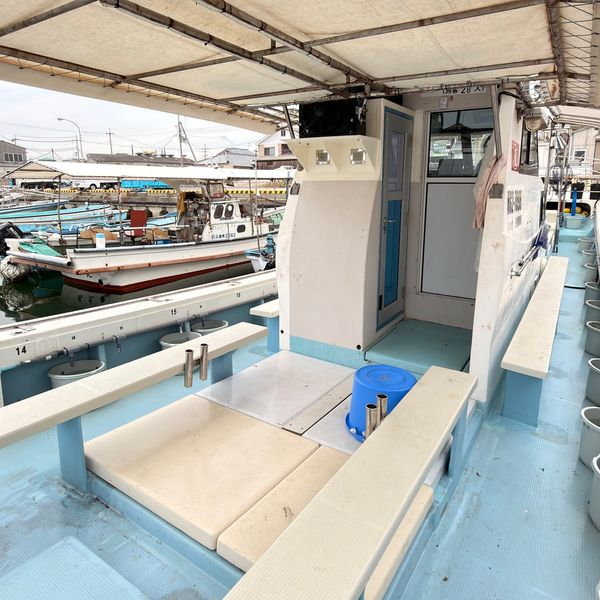
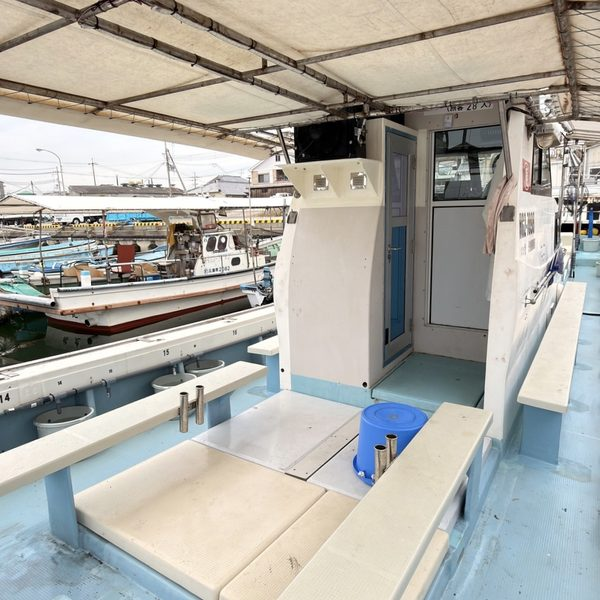
Add files via upload

diff --git a/index.html b/index.html
@@ -94,14 +94,18 @@ h2.sec-title{font-family:"Yusei Magic","Noto Sans JP",sans-serif;font-size:clamp
 @keyframes slideIn{from{opacity:0;transform:translateY(-8px)}to{opacity:1;transform:translateY(0)}}
 .feat-sec{background:#fff;}
 .facility-sec{background:var(--sky-pale);}
-.fac-grid{display:grid;grid-template-columns:repeat(2,1fr);gap:12px;}
-.fac-card{background:#fff;border:1.5px solid var(--border);border-radius:14px;overflow:hidden;box-shadow:0 4px 16px rgba(13,50,96,.05);}
+.fac-grid{display:grid;grid-template-columns:repeat(3,1fr);gap:8px;}
+.fac-card{background:#fff;border:1.5px solid var(--border);border-radius:10px;overflow:hidden;box-shadow:0 4px 16px rgba(13,50,96,.05);}
+.fac-card.span2{grid-column:span 2;}
 .fac-img{width:100%;aspect-ratio:1;overflow:hidden;}
 .fac-img img{width:100%;height:100%;object-fit:cover;display:block;}
-.fac-info{padding:12px 13px 14px;}
-.fac-title{font-family:"Yusei Magic","Noto Sans JP",sans-serif;font-size:15px;font-weight:400;color:var(--navy);margin:0 0 5px;line-height:1.4;}
-.fac-text{font-size:12px;line-height:1.75;color:var(--text);margin:0;}
-@media(min-width:769px){.fac-grid{grid-template-columns:repeat(3,1fr);gap:16px;}}
+.fac-card.span2 .fac-img{aspect-ratio:2/1;}
+.fac-card.dual-img .fac-img{display:grid;grid-template-columns:1fr 1fr;gap:0;aspect-ratio:2/1;}
+.fac-card.dual-img .fac-img img{aspect-ratio:1;height:100%;}
+.fac-info{padding:8px 10px 10px;}
+.fac-title{font-family:"Yusei Magic","Noto Sans JP",sans-serif;font-size:11px;font-weight:400;color:var(--navy);margin:0 0 3px;line-height:1.3;}
+.fac-text{font-size:10px;line-height:1.6;color:var(--text);margin:0;}
+@media(min-width:769px){.fac-grid{gap:16px;}.fac-info{padding:12px 13px 14px;}.fac-title{font-size:15px;margin:0 0 5px;line-height:1.4;}.fac-text{font-size:12px;line-height:1.75;}}
 .boat-photo{margin-bottom:24px;border-radius:16px;overflow:hidden;box-shadow:0 4px 24px rgba(13,50,96,.1);}
 .boat-photo img{width:100%;height:auto;aspect-ratio:1400/1049;object-fit:cover;display:block;}
 .boat-photo figcaption{background:var(--navy);color:#fff;font-size:11px;padding:8px 14px;text-align:center;}
@@ -272,26 +276,40 @@ footer{background:var(--navy);padding:36px 20px 90px;text-align:center;}
   <div class="sec-inner">
     <div class="sec-head"><div class="sec-eyebrow">FACILITY</div><h2 class="sec-title">船の設備・サービス</h2><p class="sec-desc">初めての方も快適に過ごせる設備が揃っています。</p></div>
     <div class="fac-grid">
+      <!-- 1: 大型船（2マス幅） -->
+      <div class="fac-card span2">
+        <div class="fac-img"><img src="fac-ship.jpg" width="600" height="600" loading="lazy" decoding="async" alt="なかにし丸 最大24名の大型遊漁船"></div>
+        <div class="fac-info"><h3 class="fac-title">🚢 最大24名の大型船</h3><p class="fac-text">ゆったりしたスペースで快適に釣りを楽しめます。グループでも安心の大型船です。</p></div>
+      </div>
+      <!-- 4: 個人イケス -->
+      <div class="fac-card">
+        <div class="fac-img"><img src="fac-ikes.jpg" width="600" height="600" loading="lazy" decoding="async" alt="なかにし丸 個人イケス タモ完備"></div>
+        <div class="fac-info"><h3 class="fac-title">🪣 個人イケス・タモ完備</h3><p class="fac-text">釣ったタコを活かす個別イケス付き。タモも完備しているので手ぶらでOK。</p></div>
+      </div>
+      <!-- 2+3: 屋根付き・広い船内（2枚横並び・2マス幅） -->
+      <div class="fac-card span2 dual-img">
+        <div class="fac-img">
+          <img src="fac-roof.jpg" width="600" height="600" loading="lazy" decoding="async" alt="なかにし丸 全席屋根付き">
+          <img src="fac-inside.jpg" width="600" height="600" loading="lazy" decoding="async" alt="なかにし丸 広い船内">
+        </div>
+        <div class="fac-info"><h3 class="fac-title">☂️ 全席屋根付き・広い船内</h3><p class="fac-text">日差しや小雨を防ぐ屋根付き。広々した船内で夏でも快適に釣りを楽しめます。</p></div>
+      </div>
+      <!-- 5: トイレ -->
       <div class="fac-card">
         <div class="fac-img"><img src="fac-toilet.jpg" width="600" height="600" loading="lazy" decoding="async" alt="なかにし丸 船内トイレ完備"></div>
         <div class="fac-info"><h3 class="fac-title">🚻 トイレ完備</h3><p class="fac-text">船内にトイレあり。長時間でも安心。女性のお客様にも好評です。</p></div>
       </div>
-      <div class="fac-card">
-        <div class="fac-img"><img src="fac-inside.jpg" width="600" height="600" loading="lazy" decoding="async" alt="なかにし丸 各個人イケス 広い船内"></div>
-        <div class="fac-info"><h3 class="fac-title">🪣 各個人イケス・広い船内</h3><p class="fac-text">釣ったタコを活かす個別イケス付き。ゆったりした船内で快適に釣りができます。</p></div>
-      </div>
-      <div class="fac-card">
-        <div class="fac-img"><img src="fac-roof.jpg" width="600" height="600" loading="lazy" decoding="async" alt="なかにし丸 屋根付き 遊漁船"></div>
-        <div class="fac-info"><h3 class="fac-title">☂️ 屋根付き</h3><p class="fac-text">日差しや小雨を防ぐ屋根付き。夏でも快適に釣りを楽しめます。</p></div>
-      </div>
+      <!-- 6: レンタルタックル -->
       <div class="fac-card">
         <div class="fac-img"><img src="fac-rental.jpg" width="600" height="600" loading="lazy" decoding="async" alt="なかにし丸 レンタルタックル ロッドレンタル"></div>
         <div class="fac-info"><h3 class="fac-title">🎣 レンタルタックル充実</h3><p class="fac-text">ロッド・リールのレンタルが充実。手ぶらでも参加OKです。</p></div>
       </div>
+      <!-- 7: 仕掛け販売 -->
       <div class="fac-card">
         <div class="fac-img"><img src="fac-shikake.jpg" width="600" height="600" loading="lazy" decoding="async" alt="なかにし丸 仕掛け販売 タコエギ"></div>
         <div class="fac-info"><h3 class="fac-title">🛒 仕掛け販売あり</h3><p class="fac-text">タコエギや仕掛けを船で購入できます。忘れてしまっても安心です。</p></div>
       </div>
+      <!-- 8: 氷あり -->
       <div class="fac-card">
         <div class="fac-img"><img src="fac-ice.jpg" width="600" height="600" loading="lazy" decoding="async" alt="なかにし丸 氷あり 釣果保冷"></div>
         <div class="fac-info"><h3 class="fac-title">🧊 氷あり</h3><p class="fac-text">凍ったペットボトルをご用意。釣ったタコも飲み物も冷たいまま持ち帰れます。</p></div>